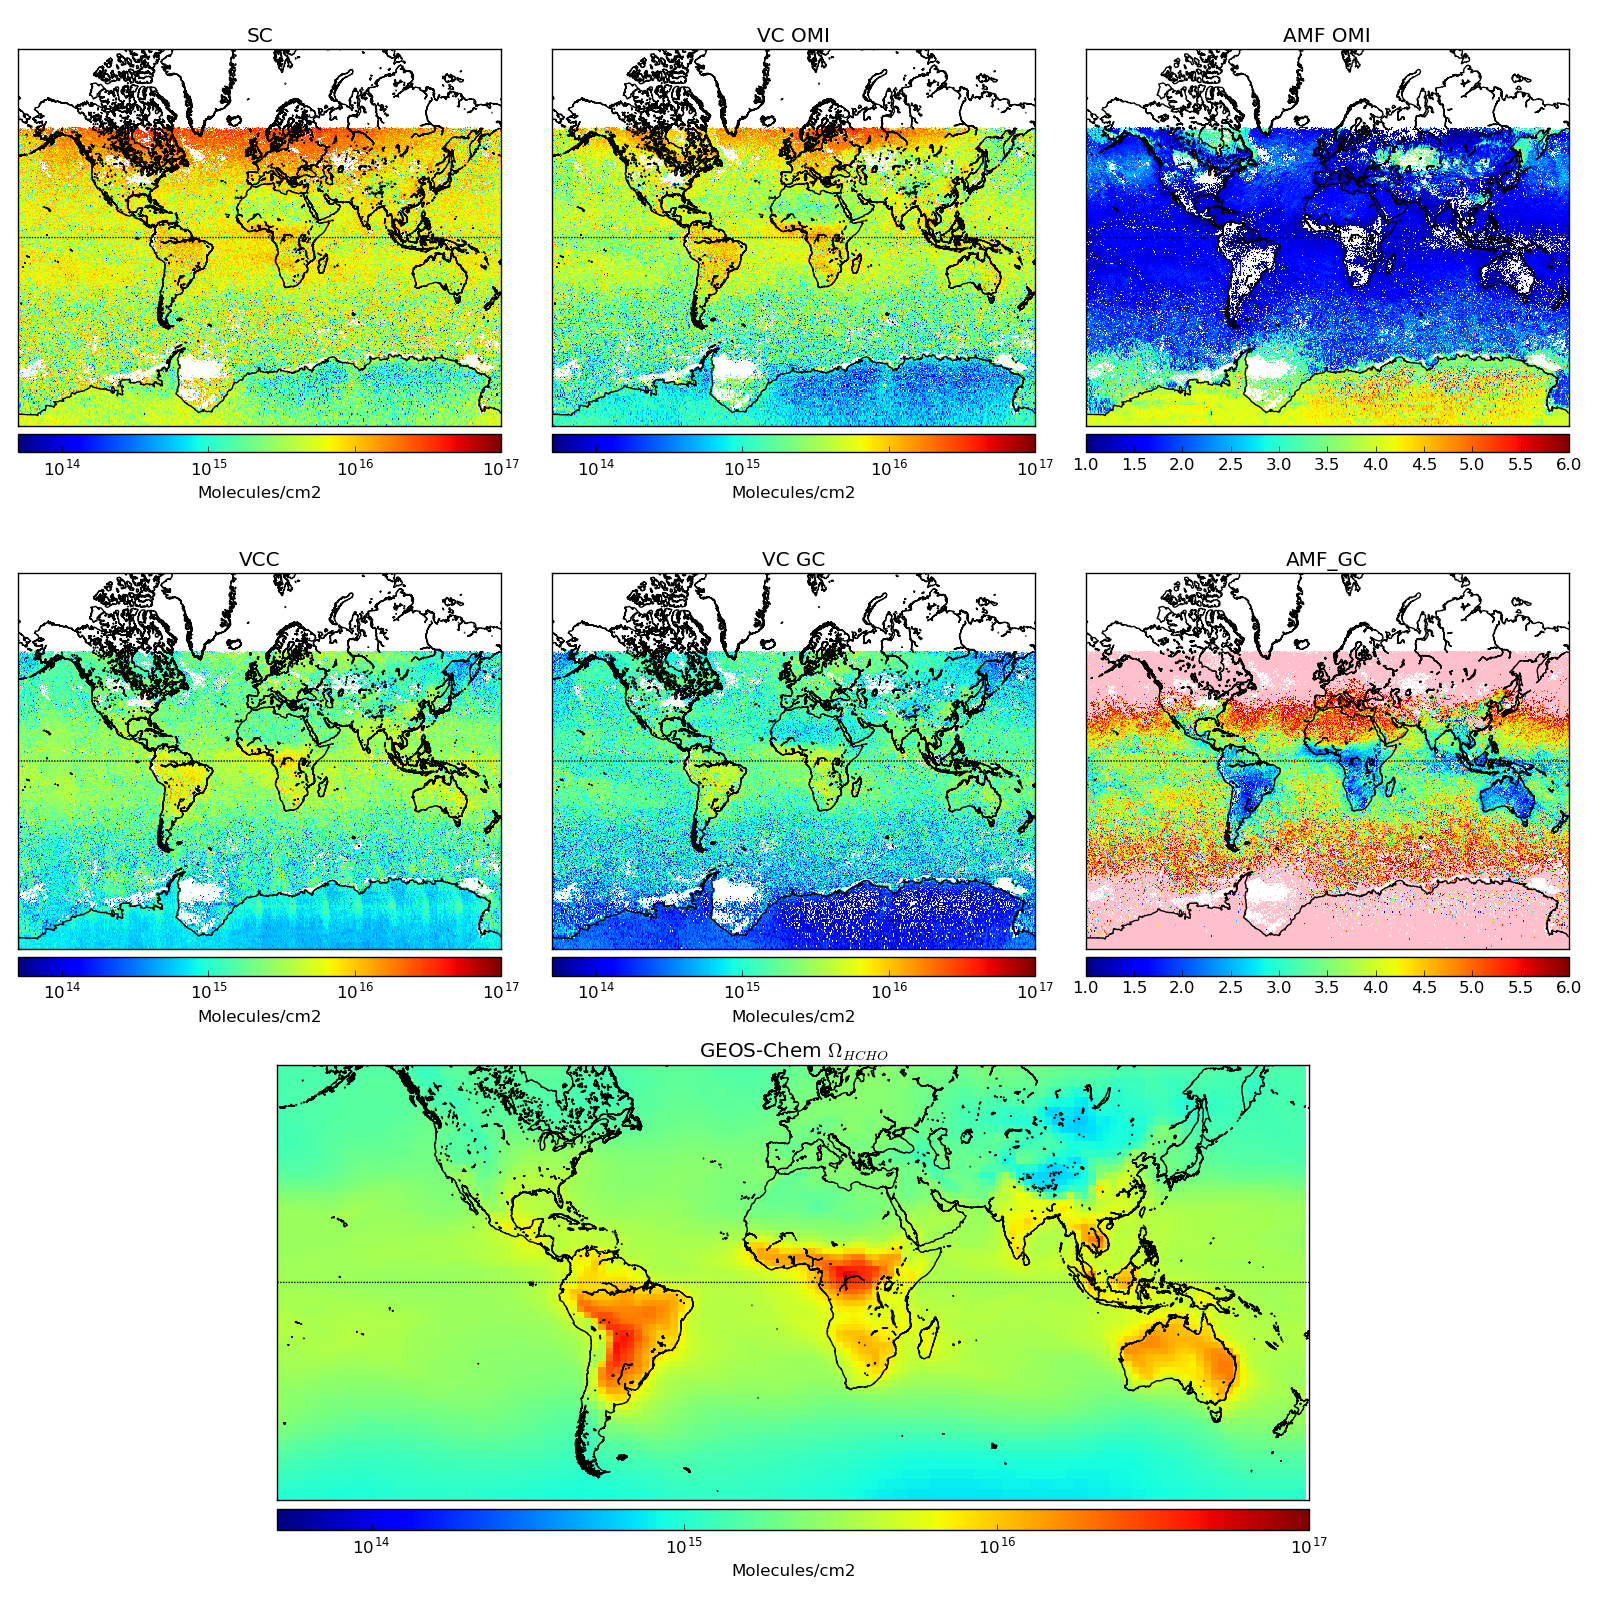
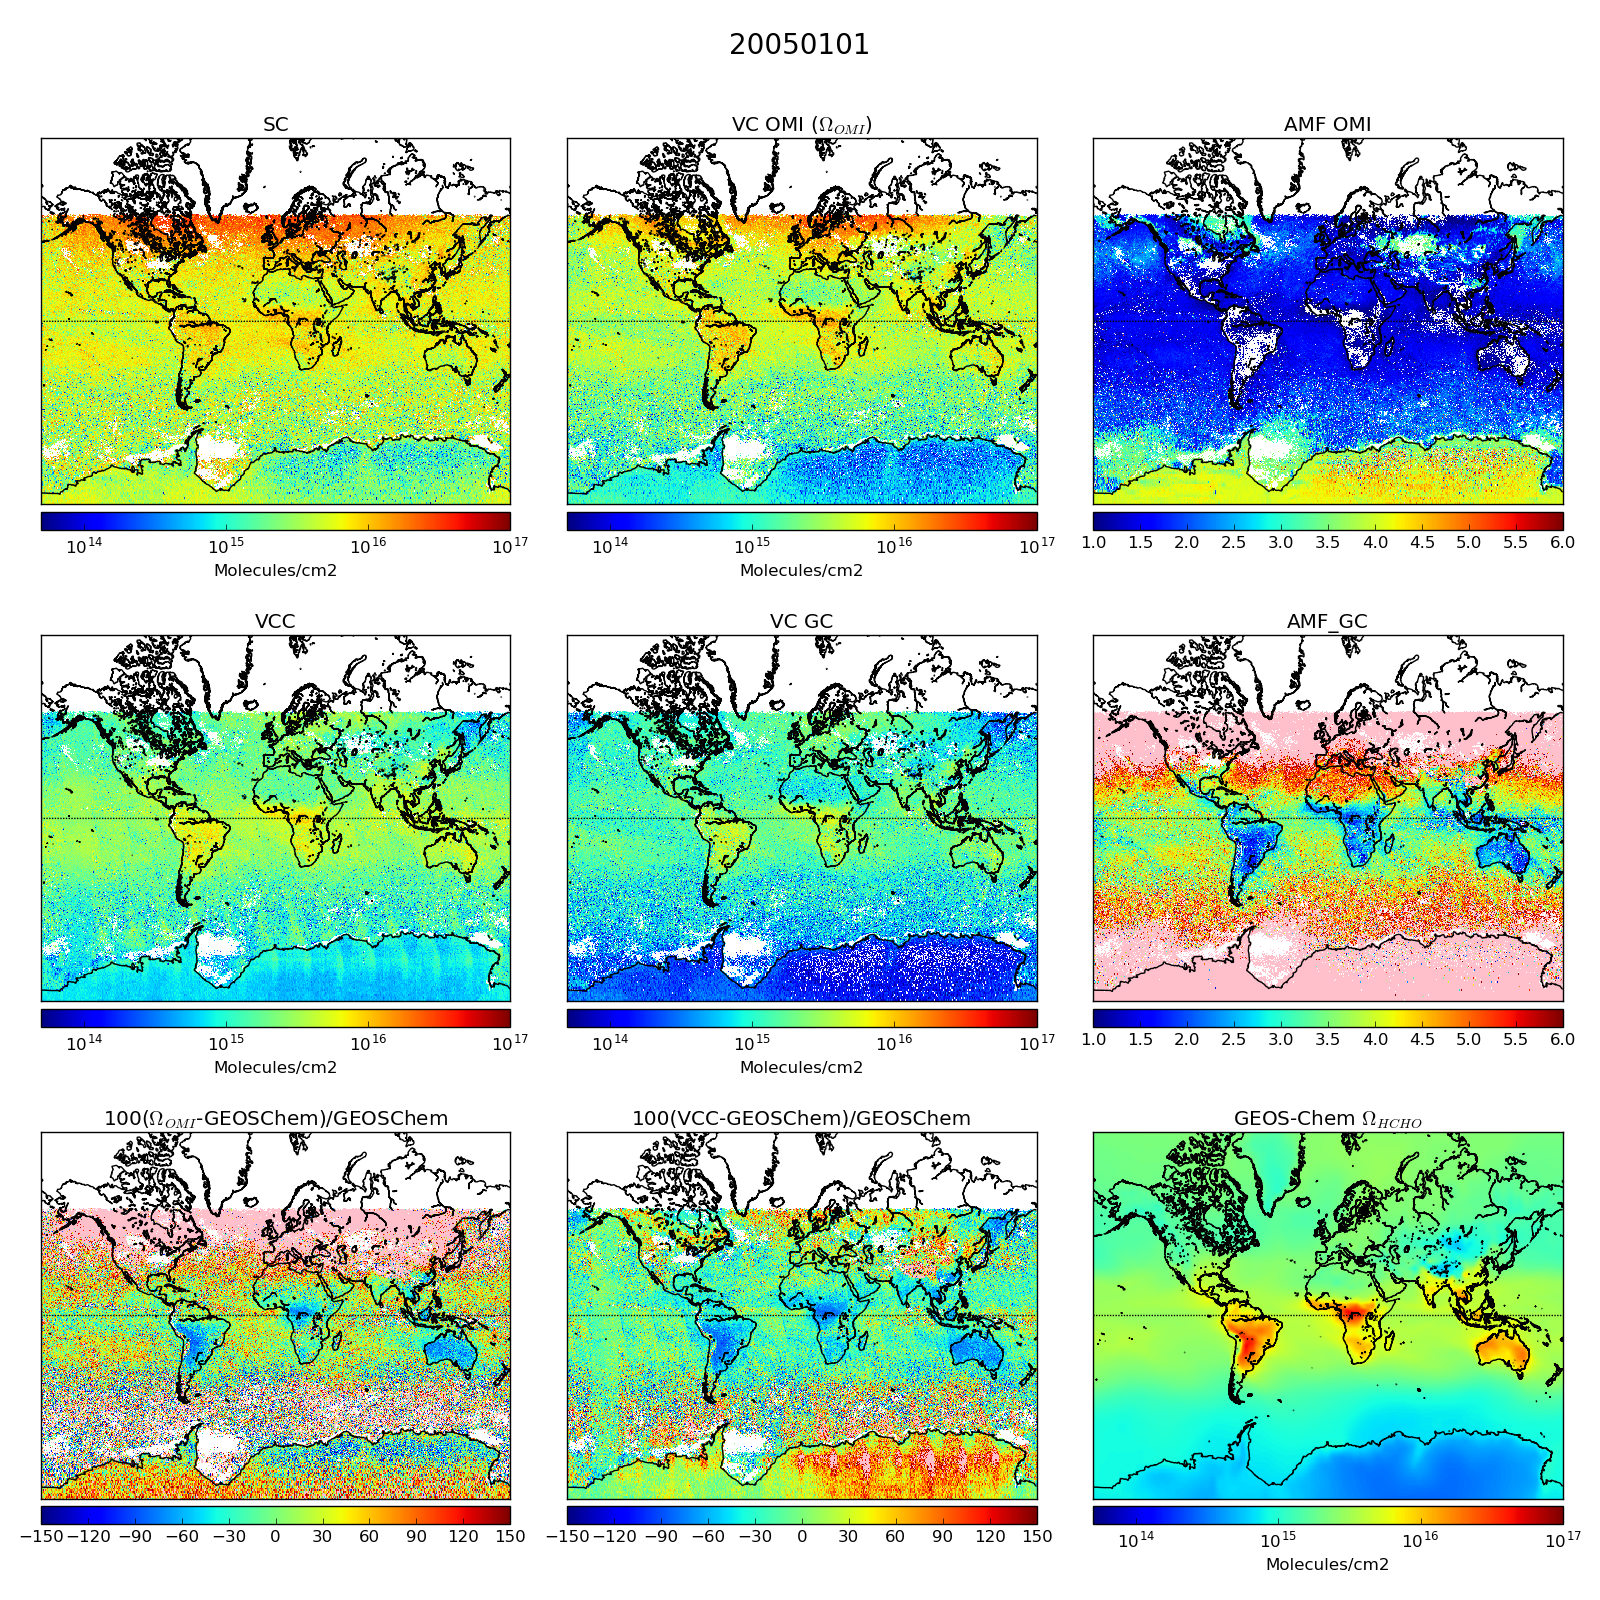
Interpolation function to gchcho class and difference between VCC, VC_OMI, and GEOS-Chem plotted

diff --git a/tests.py b/tests.py
@@ -141,7 +141,7 @@ def test_reprocess_corrected(run_reprocess=False, oneday=True):
     # GEOS-Chem month average map
     #
     f = plt.figure(num=0,figsize=(16,16))
-    axes=[f.add_subplot(3,3,j) for j in range(1,7)]
+    axes=[f.add_subplot(3,3,j) for j in range(1,10)]
     # Plot OMI, old, new AMF map
     # set currently active axis from [2,3] axes array
     plt.sca(axes[0])
@@ -149,7 +149,7 @@ def test_reprocess_corrected(run_reprocess=False, oneday=True):
     plt.title('SC')
     plt.sca(axes[1])
     m,cs,cb = createmap(omhchorp['VC_OMI'],lats,lons)
-    plt.title('VC OMI')
+    plt.title('VC OMI ($\Omega_{OMI}$)')
     plt.sca(axes[2])
     m,cs,cb = linearmap(omhchorp['AMF_OMI'],lats,lons,vmin=1.0,vmax=6.0)
     plt.title('AMF OMI')
@@ -163,19 +163,33 @@ def test_reprocess_corrected(run_reprocess=False, oneday=True):
     m,cs,cb = linearmap(omhchorp['AMF_GC'],lats,lons,vmin=1.0,vmax=6.0)
     plt.title('AMF_GC')
     
-    # Plot finally the GEOS-Chem map 
-    gc=fio.read_gchcho(date) # read the GC data
-    glons,glats=np.meshgrid(gc.lons,gc.lats)
-    ax=f.add_subplot(3,1,3) # make 3rd row the plot axis
-    plt.sca(ax)
+    # Plot finally the GEOS-Chem map divergences
     
-    m,cs,cb = createmap(gc.VC_HCHO*1e-4, glats,glons, llcrnrlat=-60, urcrnrlat=60, llcrnrlon=-179, urcrnrlon=179)
+    gc=fio.read_gchcho(date) # read the GC data
+    fineHCHO=gc.interp_to_grid(latmids,lonmids) * 1e-4 # molecules/m2 -> molecules/cm2
+    print(fineHCHO.shape)
+    print(lats.shape)
+    OMIdiff=100*(omhchorp['VC_OMI'] - fineHCHO) / fineHCHO
+    GCdiff=100*(omhchorp['VCC'] - fineHCHO) / fineHCHO
+    plt.sca(axes[6])
+    vmin,vmax = -150, 150
+    m,cs,cb = linearmap(OMIdiff, lats,lons,vmin=vmin,vmax=vmax)
+    #m,cs,cb = createmap(gc.VC_HCHO*1e-4, glats,glons, llcrnrlat=-60, urcrnrlat=60, llcrnrlon=-179, urcrnrlon=179)
+    plt.title('100($\Omega_{OMI}$-GEOSChem)/GEOSChem')
+    plt.sca(axes[7])
+    m,cs,cb = linearmap(GCdiff, lats,lons,vmin=vmin,vmax=vmax)
+    plt.title('100(VCC-GEOSChem)/GEOSChem')
+    plt.sca(axes[8])
+    m,cs,cb = createmap(fineHCHO, lats,lons)
     plt.title('GEOS-Chem $\Omega_{HCHO}$')
     
     # save plots
+    yyyymmdd = date.strftime("%Y%m%d")
+    f.suptitle(yyyymmdd, fontsize=20)
     plt.tight_layout()
+    plt.subplots_adjust(top=0.94)
     onedaystr= [ 'eight_day_','one_day_' ][oneday]
-    outfig="pictures/%scorrected%s.png"%(onedaystr, date.strftime("%Y%m%d"))
+    outfig="pictures/%scorrected%s.png"%(onedaystr, yyyymmdd)
     plt.savefig(outfig)
     plt.close()
     print(outfig+" Saved.")
@@ -704,11 +718,6 @@ def test_amf_calculation():
     
     plt.close()
     plt.figure(3,(5,5))
-    # ALSO plot the OMI apriori
-    #plt.plot(S_omi,wcoords,color='k',label='OMI apriori')
-    #plt.tight_layout()
-    #plt.title('OMI Apriori')
-    #plt.savefig('pictures/OMI_apriori.png')
 
 def check_high_amfs(day=datetime(2005,1,1)):
     '''

diff --git a/classes.py b/classes.py
@@ -9,6 +9,7 @@ import numpy as np
 from datetime import datetime
 from glob import glob
 from scipy.interpolate import griddata
+from scipy.interpolate import RectBivariateSpline as RBS
 import h5py
 
 class gchcho:
@@ -29,9 +30,9 @@ class gchcho:
     # dimensions
     pmids=0     #(hPa)
     pedges=0    #(hPa)
-    lons=0
-    lats=0
-    sigmas=0
+    lons=0      # [144]
+    lats=0      # [91]
+    sigmas=0    # [72]
     boxH=0      #(m)
     
     def __init__(self):
@@ -101,6 +102,20 @@ class gchcho:
         shape=self.Shape_s[:,latind,lonind]
         sigma=self.sigmas[:,latind,lonind]
         return(shape,sigma)
+    
+    def interp_to_grid(self, newlats, newlons):
+        '''
+        Return interpolated HCHO columns
+        Inputs:
+            newlats: ascending regular grid of latitudes
+            newlons: '' of longitudes
+        Outputs: VC_HCHO in molecs/m2
+            VC_HCHO[ newlats, newlons ], newlats, newlons
+        '''
+        # X, Y, DATA[X,Y]
+        interp=RBS(self.lons, self.lats, np.transpose(self.VC_HCHO))
+        newhcho=np.transpose(interp(newlons,newlats))
+        return newhcho
     
     def PlotVC(self, lllat=-65, urlat=65, lllon=-179, urlon=179, vmin=1e17, vmax=1e21, cm2=False):
         '''
